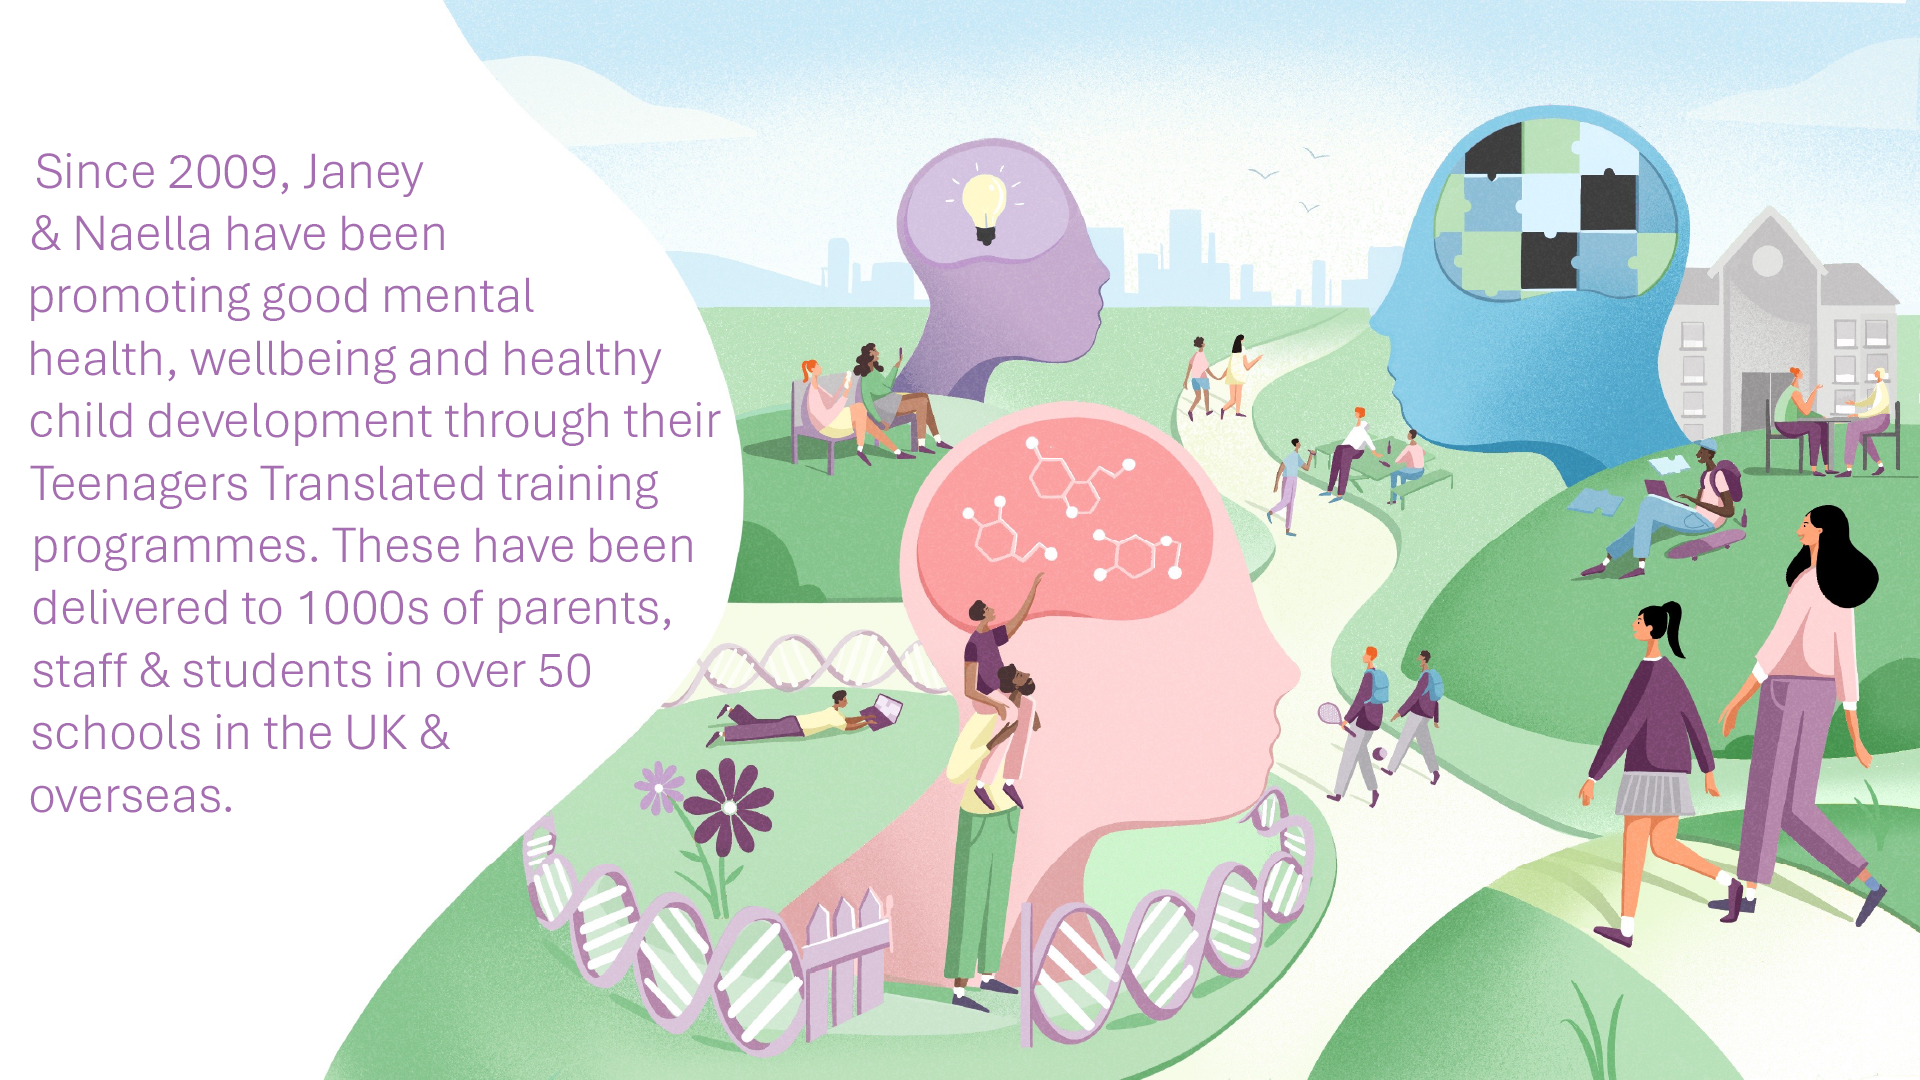
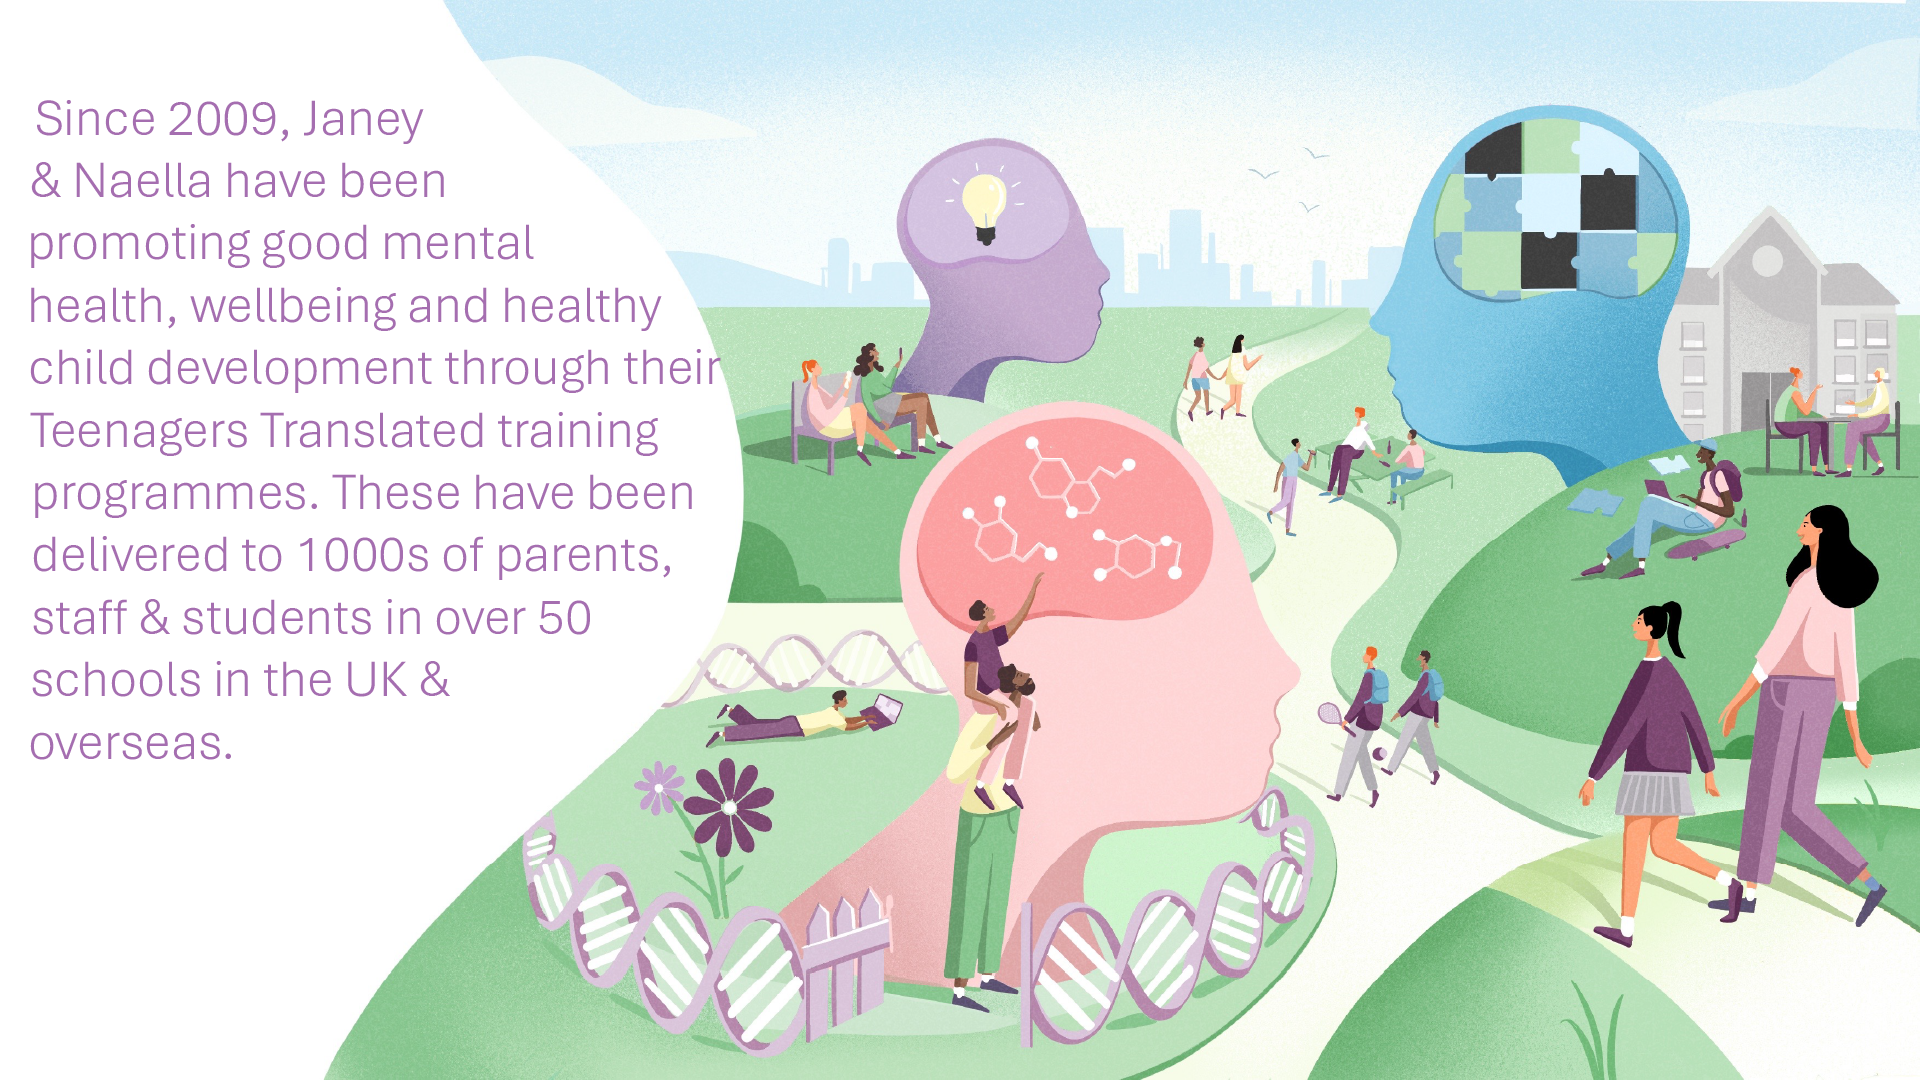
last push before build and live

Changed region(s): [[0.0, 0.0917, 0.375, 0.7028], [0.0312, 0.7333, 0.125, 0.7639]]

diff --git a/src/components/Book/BookPage.css b/src/components/Book/BookPage.css
@@ -22,6 +22,10 @@
   margin-bottom: 7rem;
 }
 
+#BookPage__Container {
+  margin-top: 10%;
+}
+
 /* Text style */
 .BookPage__text {
   font-size: 50px;
@@ -72,9 +76,14 @@
   }
 
   .BookPage__header {
-    margin-bottom: 4rem;
+    margin-bottom: 3rem;
     font-size: 60px;
     font-weight: 350;
+    margin-top: 10%;
+  }
+
+  #BookPage__Container {
+    margin-top: 10%;
   }
 
   .book__left {
@@ -102,6 +111,11 @@
     margin-bottom: 3rem;
     font-size: 40px;
     font-weight: 400;
+    margin-top: 10%;
+  }
+
+  #BookPage__Container {
+    margin-top: 10%;
   }
 
   .book__left {

diff --git a/src/components/Header.css b/src/components/Header.css
@@ -28,8 +28,8 @@
 
 #about-btn {
   position: absolute; /* Position the button absolutely */
-  bottom: 10%; /* Adjust bottom spacing as needed */
-  left: 10px; /* Adjust left spacing as needed */
+  bottom: 15%; /* Adjust bottom spacing as needed */
+  left: 0px; /* Adjust left spacing as needed */
   z-index: 1; /* Ensure button is above the image */
 }
 
